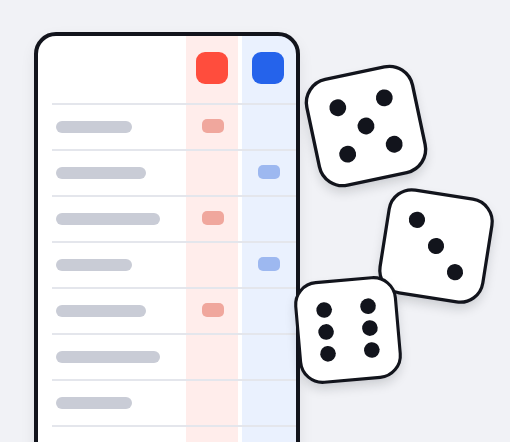
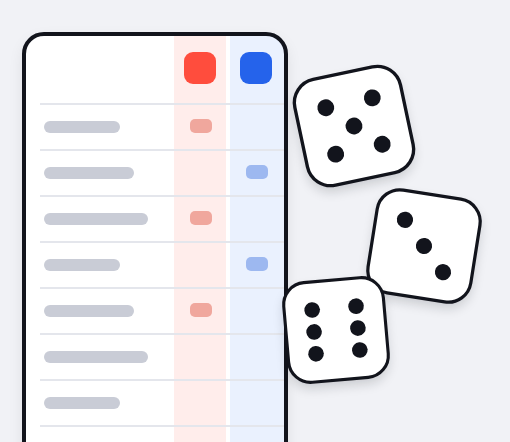
fix(design-system): give GameCard an edge that cannot fan out at the corners (#40)
Five attempts at a stray outline on the card's corners, three of them
chasing the wrong thing. Two were real rendering faults; the third was
geometry, and no amount of layering was ever going to fix it.

The two real faults:

  * box-shadow is knocked out inside the border box, so on the corner
    arcs its edge and the card's are separately antialiased and composite
    to roughly 75% coverage -- a pale hairline of the same colour, on the
    curves only.
  * a border makes overflow clip children at the padding-box curve while
    the border paints to the border-box curve. Two arcs again, with the
    background showing through the gap: invisible on a white page,
    obvious in dark mode where the card surface is #1c1f2a between a
    light border and light artwork. The outline now rides above the art
    as an overlay, so there is no gap.

The geometry: displacing a rounded shape downward pushes its corners
sideways by sqrt(2 * radius * depth) -- 8.7px at this card's 20px radius
against a 2px edge, so the band was four times thicker at the corners
than along the flat bottom. True of a box-shadow, a drop-shadow and a
positioned element alike, and trading radius only moves the error to the
other end: a rounder edge stops overhanging but pulls its ends 8px short.

So the edge is a heavier bottom border instead. Nothing is displaced, a
border follows the contour and tapers into the sides through the arcs,
[…]

diff --git a/packages/design-system/ui/GameCard.tsx b/packages/design-system/ui/GameCard.tsx
@@ -24,16 +24,14 @@ export const GameCard = ({
   onClick?: (event: MouseEvent<HTMLButtonElement>) => void;
   className?: string;
 }) => (
-  <div className={cx("group relative pb-0.5", className)}>
-    {/* The edge is a real element rather than a shadow. A zero-blur shadow can only
-        land on whole pixels, so growing one during the lift rendered as visible 1px
-        steps trailing the motion -- box-shadow and drop-shadow both did it. This
-        never moves: the card slides off it, and a transform is all that animates.
-        Hover lives on the group so the card cannot lift out from under the cursor. */}
-    <span className="absolute inset-0 rounded-eo-lg bg-eo-strong" />
-
+  <div className={cx("group pb-0.5", className)}>
     <button
-      className="relative block h-50 w-full overflow-hidden rounded-eo-lg border-2 border-eo-strong bg-(image:--eo-versus) text-left transition-[translate] duration-(--eo-duration-fast) ease-eo-out enabled:cursor-pointer enabled:group-hover:-translate-y-[3px] enabled:active:translate-y-0.5"
+      className={cx(
+        "relative block aspect-square w-full overflow-hidden rounded-eo-lg text-left transition-[translate] duration-(--eo-duration-fast) ease-eo-out enabled:cursor-pointer enabled:active:translate-y-0.5",
+        // The versus field is what a card without art looks like, not a layer under
+        // one: artwork dimmed to 45% would let the gradient bleed through it.
+        art === undefined ? "bg-(image:--eo-versus)" : "bg-eo-card",
+      )}
       type="button"
       disabled={disabled}
       onClick={onClick}
@@ -55,6 +53,27 @@ export const GameCard = ({
           {name}
         </span>
       </span>
+
+      {/* The outline rides on top of the art rather than being a border on the
+          button. A border makes overflow clip children at the padding-box curve
+          while the border paints to the border-box curve: two separately
+          antialiased arcs meeting only on the corners, with the background showing
+          through the gap between them.
+
+          Its heavier bottom is the edge. Nothing is offset, so the sqrt(2 * radius
+          * depth) corner widening that every shadow and every displaced element has
+          simply cannot arise -- a border follows the contour and tapers into the
+          sides through the arcs. Press thins it, the way a Button drops its
+          shadow. */}
+      <span
+        className={cx(
+          "pointer-events-none absolute inset-0 rounded-eo-lg border-2 border-b-4 border-eo-strong transition-colors duration-(--eo-duration-fast) ease-eo-out group-active:border-b-2",
+          // A raw ramp step on purpose. The wash sits on artwork, which does not
+          // repoint in dark mode, so eo-strong inverted to near-white and vanished
+          // against a light PNG. Darkening reads on both themes and on the gradient.
+          !disabled && "group-hover:bg-eo-ink-900/15",
+        )}
+      />
     </button>
   </div>
 );

diff --git a/packages/design-system/ui/tests/game.test.tsx b/packages/design-system/ui/tests/game.test.tsx
@@ -22,19 +22,42 @@ describe("GameCard", () => {
     expect(html).not.toContain("text-eo-on-color/90");
   });
 
+  it("drops the versus field behind artwork, so dimming cannot bleed it through", () => {
+    const html = renderToStaticMarkup(<GameCard name="Yazy" art="/y.png" disabled />);
+
+    expect(html).not.toContain("bg-(image:--eo-versus)");
+    expect(html).toContain("bg-eo-card");
+    expect(html).toContain("opacity-45");
+  });
+
   it("backs the title with a pill only when it sits on artwork", () => {
-    expect(renderToStaticMarkup(<GameCard name="Yazy" art="/y.png" />)).toContain(
-      "bg-eo-paper/85",
-    );
+    expect(renderToStaticMarkup(<GameCard name="Yazy" art="/y.png" />)).toContain("bg-eo-paper/85");
     expect(renderToStaticMarkup(<GameCard name="Yazy" />)).not.toContain("bg-eo-paper/85");
   });
 
-  it("draws the lift edge as a static element, never a shadow", () => {
+  it("behaves like a control: washes on hover, sinks on press, never lifts", () => {
     const html = renderToStaticMarkup(<GameCard name="Yazy" />);
 
-    expect(html).toContain("bg-eo-strong");
+    expect(html).not.toContain("-translate-y-");
+    expect(html).toContain("group-hover:bg-eo-ink-900/15");
+    expect(html).toContain("active:translate-y-0.5");
+  });
+
+  it("draws its edge as a heavier bottom border, nothing offset", () => {
+    const html = renderToStaticMarkup(<GameCard name="Yazy" />);
+
+    // Offsetting anything -- a shadow or an element -- widens the band by
+    // sqrt(2 * radius * depth) at the bottom corners. A border cannot.
+    expect(html).toContain("border-b-4");
+    expect(html).toContain("group-active:border-b-2");
     expect(html).not.toContain("shadow");
-    expect(html).toContain("group-hover:-translate-y-[3px]");
+    expect(html).not.toContain("eo-edge-inverse");
+  });
+
+  it("stops washing on hover once it cannot be clicked", () => {
+    const html = renderToStaticMarkup(<GameCard name="Yazy" disabled />);
+
+    expect(html).not.toContain("group-hover:bg-eo-ink-900/15");
   });
 
   it("dims and disables a card that cannot be clicked", () => {

diff --git a/apps/web/src/app/page.tsx b/apps/web/src/app/page.tsx
@@ -23,7 +23,11 @@ const PLAYABLE: PlayableGame[] = [
   },
 ];
 
-const GRID = "grid grid-cols-[repeat(auto-fill,minmax(190px,1fr))] gap-5";
+/* Fixed tracks, so a card is the same square at every viewport and object-cover
+   never re-crops the art. 214px is not arbitrary: it tiles five across the 1200px
+   page max with 2px to spare. Any fixed width leaves a remainder at other widths --
+   that is the cost of not using 1fr, and it only shows once a row fills. */
+const GRID = "grid grid-cols-[repeat(auto-fill,214px)] gap-5";
 const HEADING = "font-eo-display text-eo-display-s tracking-eo-tight text-eo-strong";
 
 const Home = () => {
